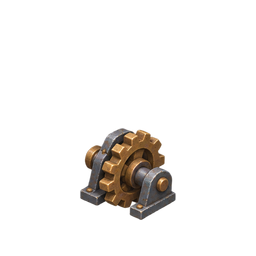
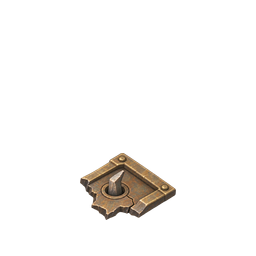
art: 함정 부품을 부서진 가시판 조각으로 교체

Changed region(s): [[0.3125, 0.5, 0.6875, 0.875]]

diff --git a/tools/art/check.py b/tools/art/check.py
@@ -6,6 +6,7 @@ No Pillow dependency. The --window path requires the project's pico2d installati
 
 import argparse
 import ctypes
+from datetime import date
 import gc
 import hashlib
 import json
@@ -37,7 +38,8 @@ def main():
                 raise ValueError(f"Not RGBA8: {name}")
             if digest(data) != entry["sha256"]:
                 raise ValueError(f"Hash mismatch: {name}")
-    print("PASS: 44 sprites, 3 aligned atlases, 3 sources; PNG headers and SHA-256.")
+    print(f"PASS: {len(manifest['sprites'])} sprites, {len(manifest['atlases'])} aligned atlases, "
+          f"{len(manifest['sources'])} sources; PNG headers and SHA-256.")
     if not args.window:
         return
 
@@ -74,7 +76,7 @@ def main():
         if max_error > 2:
             raise ValueError(f"Atlas clip rendering differs from individual sprites: {max_error}")
         report = {
-            "checked": "2026-11-08",
+            "checked": date.today().isoformat(),
             "manifest_sha256": digest(manifest_bytes),
             "pico2d_loaded_images": len(sprites) + len(atlases),
             "individual_sprites_drawn": len(sprites),

diff --git a/assets/art_v1/README.md b/assets/art_v1/README.md
@@ -14,12 +14,18 @@
 | `objects/` | 16 | 부품, 뼈 묶음, 운반·배치 병사, 작업대 3상태, 레버 2상태, 발판 2상태, 투입구 입·출력, 벨트 2방향, 화로 |
 | `characters/worker/` | 16 | NE·SE·SW·NW 각 방향의 대기·걷기 A·걷기 B·운반 자세 |
 | `atlases/` | 3 | 256px 셀로 재정렬한 환경·물체·캐릭터 아틀라스 |
-| `sources/` | 3 PNG + JSON | 생성 원본과 전체 프롬프트. 원본 PNG는 보존한다. |
+| `sources/` | 4 PNG + JSON | 최초 아틀라스 3장, 교체용 부품 원본 1장과 전체 프롬프트. 원본 PNG는 보존한다. |
 | `previews/` | 3 | 전체 목록, 입문 3번 방 조립 예시, 4×4 타일 연결 검토 |
 
 개별 PNG는 모두 **256×256 RGBA8**이다. 환경 아틀라스는 **1024×768**, 물체·캐릭터 아틀라스는 **1024×1024**다. 자세한 파일·크기·기준점·SHA-256·프레임 좌표는 [manifest.json](manifest.json)에 기록한다.
 
 ![전체 스프라이트 목록](previews/overview.png)
+
+### 2026-11-09 부품 교체
+
+운반 부품을 함정에서 떨어져 나온 황동 철판 조각으로 교체했다. 기존 함정과 같은 테두리, 리벳, 가시 구멍과 부러진 가시를 사용한다. `objects/part.png`와 물체 아틀라스의 해당 셀에 적용하며, 폭 96px과 바닥 기준점 `(128, 220)`은 유지한다. 파손·설치·가동 함정 타일은 기존 그림을 사용한다.
+
+내장 `image_gen`으로 제작했다. [생성 원본](sources/part-fragment.png)과 [제작·투명 배경 정리 프롬프트](sources/part-fragment-prompts.json)를 보존하며, `tools/art/build.mjs`의 교체 원본 설정으로 재빌드할 수 있다. [바닥 배치](../../docs/screenshots/stage-01-trap-fragment.png)와 [운반 화면](../../docs/screenshots/stage-01-trap-fragment-carried.png)을 실제 SDL 화면에서 확인했다.
 
 ## 좌표와 크기
 
